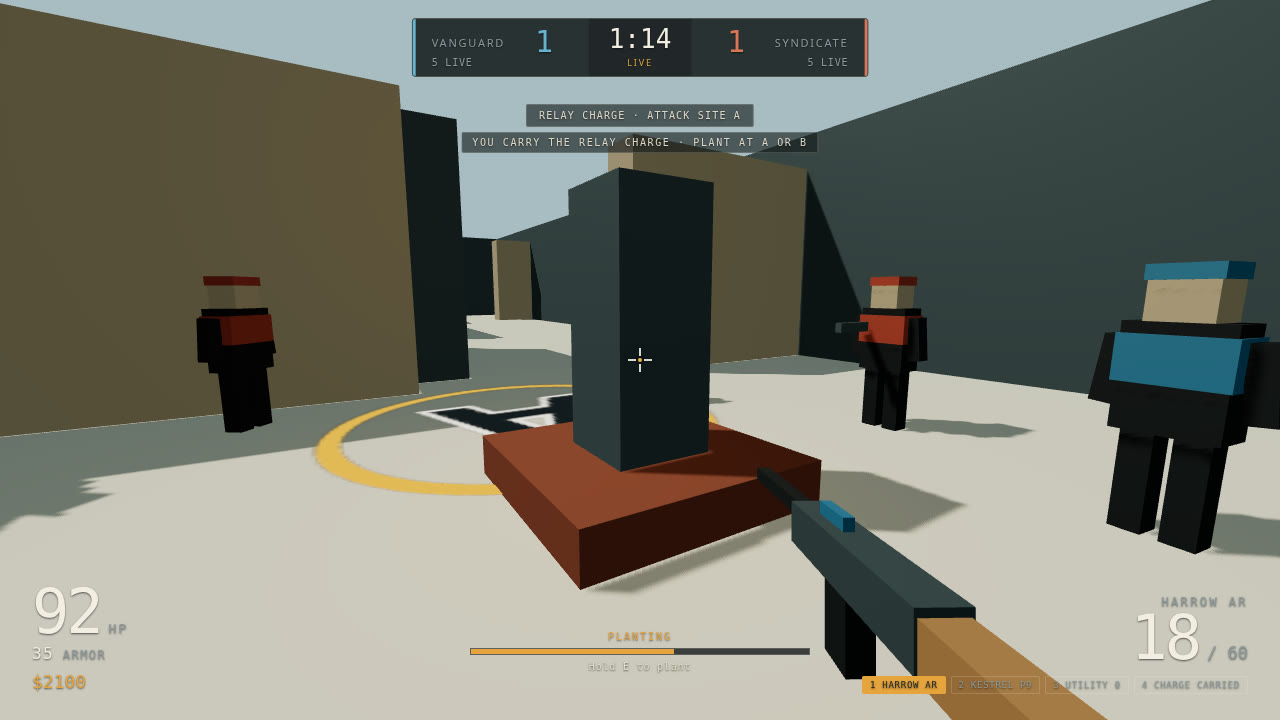
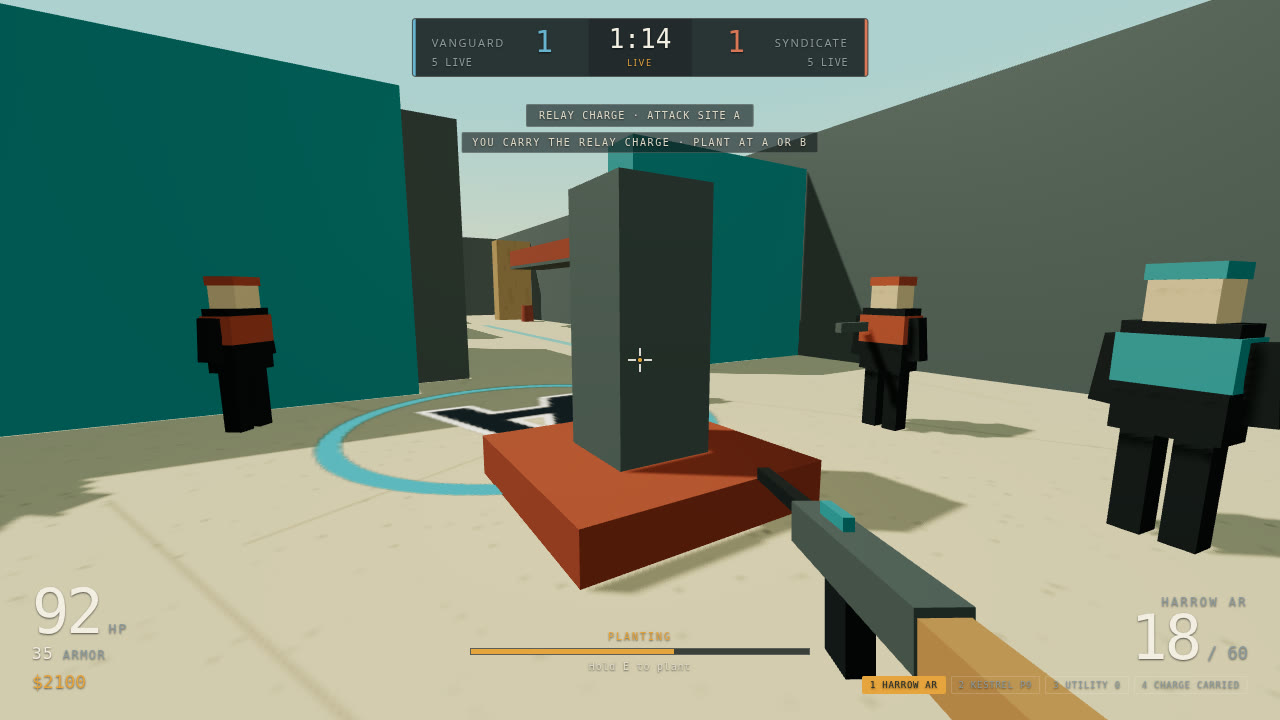
Art pass: palette, lighting, procedural textures, props

diff --git a/game/src/art.js b/game/src/art.js
@@ -1,0 +1,155 @@
+// art.js — procedural textures, sky and map props.
+import * as THREE from 'three';
+import { PALETTE } from './palette.js';
+import { mulberry32 } from './rng.js';
+
+const UNIT = new THREE.BoxGeometry(1, 1, 1);
+const BARREL = new THREE.CylinderGeometry(0.3, 0.34, 0.9, 10);
+const PIPE = new THREE.CylinderGeometry(0.11, 0.11, 1, 8);
+
+function texture(size, repeat, draw) {
+	const canvas = document.createElement('canvas');
+	canvas.width = size;
+	canvas.height = size;
+	draw(canvas.getContext('2d'), size);
+	const map = new THREE.CanvasTexture(canvas);
+	map.wrapS = map.wrapT = THREE.RepeatWrapping;
+	map.repeat.set(repeat, repeat);
+	map.colorSpace = THREE.SRGBColorSpace;
+	return map;
+}
+
+export function createTextures(seed) {
+	const rng = mulberry32(seed ^ 0x51ed270b);
+	const specks = (ctx, size, count) => {
+		for (let index = 0; index < count; index += 1) {
+			ctx.fillStyle = `rgba(38,45,42,${rng() * 0.16})`;
+			ctx.fillRect(rng() * size, rng() * size, 2, 2);
+		}
+	};
+	const wall = texture(256, 2, (ctx, size) => {
+		ctx.fillStyle = PALETTE.sand;
+		ctx.fillRect(0, 0, size, size);
+		specks(ctx, size, 550);
+		for (let index = 0; index < 4; index += 1) {
+			ctx.fillStyle = `rgba(120,92,55,${0.06 + rng() * 0.07})`;
+			ctx.beginPath();
+			ctx.arc(rng() * size, rng() * size, 14 + rng() * 22, 0, Math.PI * 2);
+			ctx.fill();
+		}
+	});
+	const floor = texture(256, 8, (ctx, size) => {
+		ctx.fillStyle = PALETTE.salt;
+		ctx.fillRect(0, 0, size, size);
+		specks(ctx, size, 420);
+		ctx.strokeStyle = 'rgba(84,74,55,0.28)';
+		for (let index = 0; index < 4; index += 1) {
+			ctx.beginPath();
+			ctx.moveTo(rng() * size, rng() * size);
+			ctx.lineTo(rng() * size, rng() * size);
+			ctx.stroke();
+		}
+	});
+	const wood = texture(256, 1, (ctx, size) => {
+		ctx.fillStyle = PALETTE.crate;
+		ctx.fillRect(0, 0, size, size);
+		for (let plank = 0; plank < 5; plank += 1) {
+			ctx.fillStyle = plank % 2 ? 'rgba(86,57,30,0.16)' : 'rgba(255,238,198,0.08)';
+			ctx.fillRect(0, plank * 52, size, 48);
+			ctx.fillStyle = 'rgba(55,40,26,0.42)';
+			ctx.fillRect(0, plank * 52 + 50, size, 2);
+		}
+		ctx.strokeStyle = 'rgba(31,42,40,0.55)';
+		ctx.lineWidth = 4;
+		ctx.strokeRect(10, 10, size - 20, size - 20);
+		ctx.fillStyle = 'rgba(31,42,40,0.55)';
+		ctx.font = 'bold 24px system-ui, sans-serif';
+		ctx.textAlign = 'center';
+		ctx.fillText('SALTWORKS', size / 2, size * 0.55);
+	});
+	const signs = new Map();
+	function sign(text, color) {
+		const key = `${text}:${color}`;
+		if (signs.has(key)) return signs.get(key);
+		const canvas = document.createElement('canvas');
+		canvas.width = 512;
+		canvas.height = 160;
+		const ctx = canvas.getContext('2d');
+		ctx.fillStyle = color;
+		ctx.fillRect(0, 0, 512, 160);
+		ctx.strokeStyle = PALETTE.ink;
+		ctx.lineWidth = 12;
+		ctx.strokeRect(8, 8, 496, 144);
+		ctx.fillStyle = PALETTE.ink;
+		ctx.font = 'bold 72px system-ui, sans-serif';
+		ctx.textAlign = 'center';
+		ctx.textBaseline = 'middle';
+		ctx.fillText(text, 256, 84);
+		const map = new THREE.CanvasTexture(canvas);
+		map.colorSpace = THREE.SRGBColorSpace;
+		signs.set(key, map);
+		return map;
+	}
+	return { wall, floor, wood, sign };
+}
+
+export function createSky(scene) {
+	const material = new THREE.ShaderMaterial({
+		side: THREE.BackSide,
+		depthWrite: false,
+		uniforms: {
+			top: { value: new THREE.Color(0.68, 0.82, 0.81) },
+			bottom: { value: new THREE.Color(0.94, 0.86, 0.72) },
+		},
+		vertexShader: 'varying vec3 v;void main(){v=position;gl_Position=projectionMatrix*modelViewMatrix*vec4(position,1.0);}',
+		fragmentShader: 'varying vec3 v;uniform vec3 top;uniform vec3 bottom;void main(){float h=clamp(normalize(v).y*1.7+0.4,0.0,1.0);gl_FragColor=vec4(mix(bottom,top,h),1.0);}',
+	});
+	scene.add(new THREE.Mesh(new THREE.SphereGeometry(150, 20, 12), material));
+}
+
+function mesh(material, sx, sy, sz, x, y, z, geometry = UNIT) {
+	const item = new THREE.Mesh(geometry, material);
+	item.scale.set(sx, sy, sz);
+	item.position.set(x, y, z);
+	item.castShadow = true;
+	item.receiveShadow = true;
+	return item;
+}
+
+export function createProps(scene, materials, textures, props) {
+	for (const prop of props) {
+		if (prop.type === 'barrel') {
+			scene.add(mesh(materials.rust, 1, 1, 1, prop.x, 0.45, prop.z, BARREL));
+		} else if (prop.type === 'pipe') {
+			const pipe = mesh(materials.rust, 1, prop.len, 1, prop.x, 2.7, prop.z, PIPE);
+			pipe.rotation.z = Math.PI * 0.5;
+			scene.add(pipe);
+		} else if (prop.type === 'lamp') {
+			scene.add(mesh(materials.steel, 0.16, 3.8, 0.16, prop.x, 1.9, prop.z));
+			scene.add(mesh(materials.accent, 0.5, 0.18, 0.5, prop.x, 3.85, prop.z));
+		} else if (prop.type === 'catwalk') {
+			scene.add(mesh(materials.steel, 1.6, 0.16, prop.len, prop.x, 2.8, prop.z));
+			scene.add(mesh(materials.rust, 0.08, 0.7, prop.len, prop.x + 0.76, 3.2, prop.z));
+		} else if (prop.type === 'sign') {
+			const panel = new THREE.Mesh(
+				new THREE.PlaneGeometry(2.6, 0.82),
+				new THREE.MeshBasicMaterial({ map: textures.sign(prop.text, prop.color || PALETTE.salt), side: THREE.DoubleSide }),
+			);
+			panel.position.set(prop.x, prop.y, prop.z);
+			panel.rotation.y = prop.yaw || 0;
+			scene.add(panel);
+		} else if (prop.type === 'paint') {
+			const material = new THREE.MeshBasicMaterial({
+				color: new THREE.Color(prop.color || PALETTE.accent),
+				transparent: true,
+				opacity: 0.55,
+				depthWrite: false,
+			});
+			const plane = new THREE.Mesh(new THREE.PlaneGeometry(prop.w, prop.d), material);
+			plane.rotation.x = -Math.PI * 0.5;
+			plane.rotation.z = prop.yaw || 0;
+			plane.position.set(prop.x, 0.025, prop.z);
+			scene.add(plane);
+		}
+	}
+}

diff --git a/game/src/world.js b/game/src/world.js
@@ -5,6 +5,7 @@ import { PALETTE } from './palette.js';
 import { MAP } from './map.js';
 import { createViewmodels } from './viewmodel.js';
 import { createBotRenders } from './botsRender.js';
+import { createProps, createSky, createTextures } from './art.js';
 
 const UNIT_BOX = new THREE.BoxGeometry(1, 1, 1);
 
@@ -28,8 +29,8 @@ function material(color, roughness, metalness, emissive = null) {
 	return new THREE.MeshStandardMaterial(options);
 }
 
-function createMaterials() {
-	return {
+function createMaterials(textures) {
+	const materials = {
 		salt: material(PALETTE.salt, 0.96, 0.02),
 		sand: material(PALETTE.sand, 0.9, 0.03),
 		steel: material(PALETTE.steel, 0.68, 0.22),
@@ -41,6 +42,10 @@ function createMaterials() {
 		syndicate: material(PALETTE.syndicate, 0.65, 0.12),
 		white: material(PALETTE.white, 0.7, 0.05),
 	};
+	materials.salt.map = textures.floor;
+	materials.sand.map = textures.wall;
+	materials.crate.map = textures.wood;
+	return materials;
 }
 
 function mesh(geometry, mat) {
@@ -66,10 +71,10 @@ function buildMap(scene, materials) {
 }
 
 function buildLights(scene) {
-	const sky = new THREE.HemisphereLight(new THREE.Color(PALETTE.sky), new THREE.Color(PALETTE.sand), 1.15);
+	const sky = new THREE.HemisphereLight(new THREE.Color(PALETTE.sky), new THREE.Color(PALETTE.sand), 1.35);
 	scene.add(sky);
 
-	const key = new THREE.DirectionalLight(new THREE.Color(PALETTE.white), 2.4);
+	const key = new THREE.DirectionalLight(new THREE.Color(PALETTE.white), 2.6);
 	key.position.set(18, 28, 12);
 	key.target.position.set(0, 0, -2);
 	key.castShadow = true;
@@ -102,7 +107,7 @@ function createObjectiveView(scene, materials) {
 		canvas.width = 256;
 		canvas.height = 256;
 		const ctx = canvas.getContext('2d');
-		ctx.strokeStyle = PALETTE.accent;
+		ctx.strokeStyle = id === 'A' ? PALETTE.vanguard : PALETTE.syndicate;
 		ctx.lineWidth = 10;
 		ctx.beginPath();
 		ctx.arc(128, 128, 104, 0, Math.PI * 2);
@@ -236,14 +241,15 @@ export function createWorld(container, state) {
 	renderer.setPixelRatio(Math.min(window.devicePixelRatio, CONFIG.view.pixelRatioCap));
 	renderer.setSize(window.innerWidth, window.innerHeight);
 	renderer.shadowMap.enabled = true;
-	renderer.shadowMap.type = THREE.PCFShadowMap;
+	renderer.shadowMap.type = THREE.PCFSoftShadowMap;
+	renderer.outputColorSpace = THREE.SRGBColorSpace;
 	renderer.toneMapping = THREE.ACESFilmicToneMapping;
-	renderer.toneMappingExposure = 1.08;
+	renderer.toneMappingExposure = 1.16;
 	container.appendChild(renderer.domElement);
 
 	const scene = new THREE.Scene();
 	scene.background = new THREE.Color(PALETTE.sky);
-	scene.fog = new THREE.Fog(new THREE.Color(PALETTE.fog), 42, 118);
+	scene.fog = new THREE.FogExp2(new THREE.Color(PALETTE.fog), 0.009);
 	const camera = new THREE.PerspectiveCamera(
 		CONFIG.view.fov,
 		window.innerWidth / window.innerHeight,
@@ -253,9 +259,12 @@ export function createWorld(container, state) {
 	camera.rotation.order = 'YXZ';
 	scene.add(camera);
 
-	const materials = createMaterials();
+	const textures = createTextures(state.seed);
+	const materials = createMaterials(textures);
 	buildMap(scene, materials);
 	buildLights(scene);
+	createSky(scene);
+	createProps(scene, materials, textures, MAP.props);
 	const objectiveView = createObjectiveView(scene, materials);
 	const nadeView = createNadeView(scene, state);
 	const botRenders = createBotRenders(scene, state);

diff --git a/game/src/map.js b/game/src/map.js
@@ -24,14 +24,14 @@ const BOXES = Object.freeze([
 	box(4, 0, -16, 5, 4.6, -10, 'steel', 'wall'),
 	box(4, 0, -7, 5, 4.6, 3, 'steel', 'wall'),
 	box(4, 0, 7, 5, 4.6, 16, 'steel', 'wall'),
-	box(-10, 0, -16, -9, 4.6, -10, 'sand', 'wall'),
-	box(-10, 0, -7, -9, 4.6, -4, 'sand', 'wall'),
-	box(-25, 0, -4, -20, 4.6, -3, 'sand', 'wall'),
-	box(-16, 0, -4, -10, 4.6, -3, 'sand', 'wall'),
-	box(9, 0, -16, 10, 4.6, -10, 'sand', 'wall'),
-	box(9, 0, -7, 10, 4.6, -4, 'sand', 'wall'),
-	box(10, 0, -4, 16, 4.6, -3, 'sand', 'wall'),
-	box(20, 0, -4, 25, 4.6, -3, 'sand', 'wall'),
+	box(-10, 0, -16, -9, 4.6, -10, 'vanguard', 'wall'),
+	box(-10, 0, -7, -9, 4.6, -4, 'vanguard', 'wall'),
+	box(-25, 0, -4, -20, 4.6, -3, 'vanguard', 'wall'),
+	box(-16, 0, -4, -10, 4.6, -3, 'vanguard', 'wall'),
+	box(9, 0, -16, 10, 4.6, -10, 'syndicate', 'wall'),
+	box(9, 0, -7, 10, 4.6, -4, 'syndicate', 'wall'),
+	box(10, 0, -4, 16, 4.6, -3, 'syndicate', 'wall'),
+	box(20, 0, -4, 25, 4.6, -3, 'syndicate', 'wall'),
 	box(-17, 0, -3, -16, 4.6, 3, 'steel', 'wall'),
 	box(-17, 0, 7, -16, 4.6, 16, 'steel', 'wall'),
 	box(16, 0, -3, 17, 4.6, 3, 'steel', 'wall'),
@@ -62,6 +62,24 @@ const SITES = Object.freeze({
 	B: Object.freeze({ minX: 10, maxX: 24, minZ: -16, maxZ: -4, plantX: 17, plantZ: -9 }),
 });
 
+const PROPS = Object.freeze([
+	{ type: 'paint', x: 0, z: 9, w: 0.35, d: 14, color: '#e3a43d' },
+	{ type: 'paint', x: -21, z: 4, w: 0.35, d: 15, color: '#3f9fa6' },
+	{ type: 'paint', x: 21, z: 4, w: 0.35, d: 15, color: '#b85f3c' },
+	{ type: 'sign', x: 0, y: 2.6, z: 15.6, yaw: Math.PI, text: 'SALTWORKS', color: '#e9e1cb' },
+	{ type: 'sign', x: -13, y: 2.4, z: -2.96, text: 'BRINE LINE', color: '#3f9fa6' },
+	{ type: 'sign', x: 13, y: 2.4, z: -2.96, text: 'PUMP HOUSE', color: '#b85f3c' },
+	{ type: 'barrel', x: -24, z: 14 },
+	{ type: 'barrel', x: 24, z: 14 },
+	{ type: 'barrel', x: -24, z: -12 },
+	{ type: 'barrel', x: 24, z: -12 },
+	{ type: 'pipe', x: 0, z: -22.5, len: 20 },
+	{ type: 'pipe', x: 0, z: 22.5, len: 20 },
+	{ type: 'lamp', x: -16, z: -14 },
+	{ type: 'lamp', x: 16, z: -14 },
+	{ type: 'lamp', x: 4.5, z: 11 },
+	{ type: 'catwalk', x: -23, z: 4, len: 14 },
+]);
 const wp = (id, x, z, links) => Object.freeze({ id, x, z, links: Object.freeze(links) });
 
 const WAYPOINTS = Object.freeze([
@@ -101,6 +119,7 @@ export const MAP = Object.freeze({
 	boxes: BOXES,
 	spawns: SPAWNS,
 	sites: SITES,
+	props: PROPS,
 	waypoints: WAYPOINTS,
 });
 

diff --git a/game/src/palette.js b/game/src/palette.js
@@ -1,16 +1,16 @@
 // palette.js — palette.
 export const PALETTE = {
-	sky: '#a8bdc2',
-	fog: '#b9c8c4',
-	salt: '#ded9c7',
-	sand: '#b9ac90',
-	steel: '#53666a',
-	rust: '#8f5238',
-	crate: '#a97f4e',
-	ink: '#222b2d',
-	muted: '#78878a',
-	accent: '#e6a43c',
-	vanguard: '#3f86a8',
-	syndicate: '#b4553a',
-	white: '#f2eee2',
+	sky: '#b7d0cd',
+	fog: '#ead8b6',
+	salt: '#e9e1cb',
+	sand: '#d8c49e',
+	steel: '#627271',
+	rust: '#a65333',
+	crate: '#b48650',
+	ink: '#1f2a2c',
+	muted: '#7f8c88',
+	accent: '#e3a43d',
+	vanguard: '#3f9fa6',
+	syndicate: '#b85f3c',
+	white: '#f7f1df',
 };
